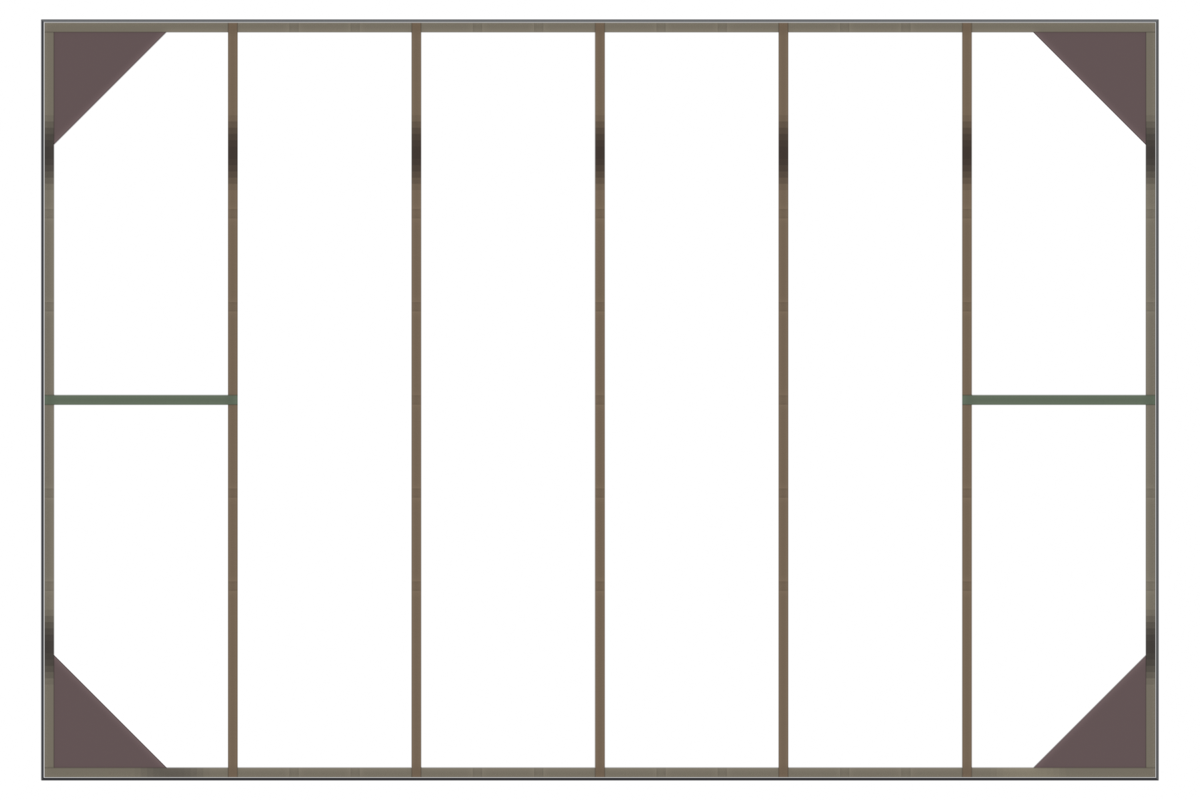
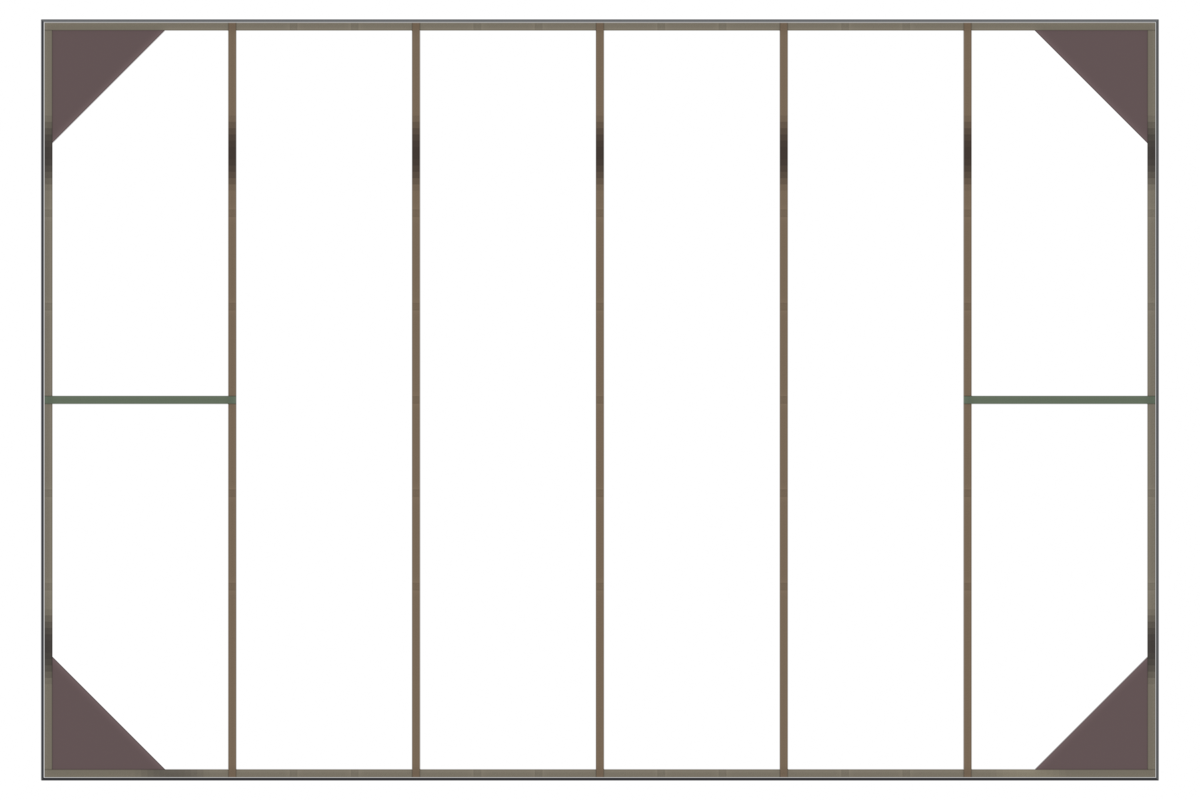
Drawer organizer: measured stock thickness 5.2 mm
Config thickness set from calipers (5.1 to 5.2 mm, sized for the thick spots);
design tests now derive from the configured thickness instead of 0.25.
Cut files, coupon, Blender files and previews regenerated.

Claude-Session: https://claude.ai/code/session_01LZycd3S2pwbAJV8HQ6xUfH

diff --git a/projects/drawer-organizer/test_design.py b/projects/drawer-organizer/test_design.py
@@ -9,24 +9,28 @@ def design():
     return Design(CONFIG)
 
 
+T = CONFIG.thickness      # measured stock, about 0.205 in
+HALF = T / 2
+
+
 def test_outer_size_and_grid(design):
     assert design.width == 29.625 and design.depth == 20.125
     xs = list(design.column_grid.values())
     assert xs == sorted(xs) and len(xs) == 13
     assert xs[0] + xs[-1] == pytest.approx(design.width)  # symmetric about the centre
-    assert xs[0] - 0.125 >= 0.25 + 3.0                   # clear of the corner gusset
-    assert xs[0] - 0.125 >= 0.25 + 1.5 + 2.0 + 0.5       # and of the corner plateau, shoulder and gap
+    assert xs[0] - HALF >= T + 3.0                        # clear of the corner gusset
+    assert xs[0] - HALF >= T + 1.5 + 2.0 + 0.5            # and of the corner plateau, shoulder and gap
     assert len(design.row_grid) == 5
 
 
 def test_steps_make_wall_cells_match_divider_cells(design):
-    assert design.column_pitch == pytest.approx((design.width - 0.25) / 18)
-    assert design.row_pitch == pytest.approx((design.depth - 0.25) / 8)
+    assert design.column_pitch == pytest.approx((design.width - T) / 18)
+    assert design.row_pitch == pytest.approx((design.depth - T) / 8)
     widths = [w for _, w, _ in design.cells()]
     for w in widths[:3]:
-        assert w == pytest.approx(3 * design.column_pitch - 0.25)
-    assert widths[3] == pytest.approx(4 * design.column_pitch - 0.25)
-    assert widths[4] == pytest.approx(5 * design.column_pitch - 0.25)
+        assert w == pytest.approx(3 * design.column_pitch - T)
+    assert widths[3] == pytest.approx(4 * design.column_pitch - T)
+    assert widths[4] == pytest.approx(5 * design.column_pitch - T)
 
 
 def test_six_equal_columns_layout():
@@ -34,7 +38,7 @@ def test_six_equal_columns_layout():
     widths = [w for _, w, _ in d.cells()]
     assert len(widths) == 6
     assert all(w == pytest.approx(widths[0]) for w in widths)
-    assert widths[0] == pytest.approx((d.width - 2 * 0.25 - 5 * 0.25) / 6)
+    assert widths[0] == pytest.approx((d.width - 2 * T - 5 * T) / 6)
     assert d.panels[4].kind == "column" and sum(p.kind == "column" for p in d.panels) == 5
 
 
@@ -60,7 +64,7 @@ def test_tops_front_corners_flat_interior_dropped_back(design):
     f = walls["wall_front"].outline.top_profile
     w = design.shoulder_width(0.5)                             # how long a step's shoulder is
     assert w == 2.0
-    col_first = min(design.column_grid.values()) - 0.125
+    col_first = min(design.column_grid.values()) - HALF
     plateau = col_first - 0.5 - w                              # step finishes one gap before the first slot
     assert design.front_wall_plateau == (pytest.approx(plateau), pytest.approx(plateau))
     assert plateau > 1.5
@@ -73,11 +77,11 @@ def test_tops_front_corners_flat_interior_dropped_back(design):
     b = walls["wall_back"].outline.top_profile
     for x in (0.0, 1.0, W / 2, W - 1.0, W):
         assert b(x) == back                                    # back wall flat at the back level
-    last_slot_end = max(design.row_grid.values()) + 0.125
+    last_slot_end = max(design.row_grid.values()) + HALF
     step_start = last_slot_end + 0.5                           # the step begins one gap past the last slot
     assert design.back_plateau == pytest.approx(D - step_start - w)
     assert design.back_plateau > 2.0                           # the lowered band is most of the back quarter
-    row_first = min(design.row_grid.values()) - 0.125
+    row_first = min(design.row_grid.values()) - HALF
     front_plateau = row_first - 0.5 - w
     assert design.side_front_plateau == pytest.approx(front_plateau)
     for name in ("wall_left", "wall_right"):
@@ -107,10 +111,10 @@ def test_ears_are_flush_front_and_back(design):
     level, back = design.level, design.back_level
     walls = {p.name: p for p in design.panels if p.kind == "wall"}
     for c in (p for p in design.panels if p.kind == "column"):
-        x = c.placement.origin[0] + 0.125
+        x = c.placement.origin[0] + HALF
         f = c.outline.top_profile
-        assert walls["wall_front"].outline.top_profile(x) == level == f(0.125)
-        assert walls["wall_back"].outline.top_profile(x) == back == f(c.outline.length - 0.125)
+        assert walls["wall_front"].outline.top_profile(x) == level == f(HALF)
+        assert walls["wall_back"].outline.top_profile(x) == back == f(c.outline.length - HALF)
         assert c.outline.bottom[0].depth == design.slot_floor
         assert c.outline.bottom[-1].depth == design.back_slot_floor
     for r in (p for p in design.panels if p.kind == "row"):
@@ -161,11 +165,11 @@ def test_panel_sizes(design):
     assert by_name["column_1"].outline.length == design.depth
     row = by_name["row_2"]  # spans two columns, crossing one divider
     assert len(row.outline.bottom) == 3
-    x1 = design.column_grid[CONFIG.columns[0]] - 0.125
-    x3 = design.column_grid[CONFIG.columns[2]] + 0.125
+    x1 = design.column_grid[CONFIG.columns[0]] - HALF
+    x3 = design.column_grid[CONFIG.columns[2]] + HALF
     assert row.outline.length == pytest.approx(x3 - x1)
     # a row divider in one of the equal columns spans the cell plus two divider faces
-    assert by_name["row_1"].outline.length == pytest.approx(3 * design.column_pitch - 0.25 + 0.5)
+    assert by_name["row_1"].outline.length == pytest.approx(3 * design.column_pitch - T + 2 * T)
 
 
 def test_cut_list_needs_passthrough_for_walls(design):
@@ -181,7 +185,7 @@ def test_cut_list_needs_passthrough_for_walls(design):
 def test_gussets(design):
     gussets = [p for p in design.panels if p.kind == "gusset"]
     assert len(gussets) == 4
-    leg, t = 3.0, 0.25
+    leg, t = 3.0, T
     tabs = design.gusset_tab_spans
     assert [v for span in tabs for v in span] == pytest.approx([0.6, 1.2, 1.8, 2.4])
     expected = leg * leg / 2 + 2 * sum((b - a) * t for a, b in tabs)
@@ -215,7 +219,7 @@ def test_cells_add_up(design):
     for _, width, depths in design.cells():
         assert width > 1
         # cells plus divider thicknesses plus the two walls span the full depth
-        assert sum(depths) + 0.25 * (len(depths) - 1) + 0.5 == pytest.approx(design.depth)
+        assert sum(depths) + T * (len(depths) - 1) + 2 * T == pytest.approx(design.depth)
 
 
 def test_row_conflict_is_rejected():

diff --git a/projects/drawer-organizer/config.py b/projects/drawer-organizer/config.py
@@ -21,7 +21,7 @@ BOX = OrganizerConfig(
     drawer_height=6.0,
     clearance=1 / 16,
     height=4.5,
-    thickness=0.25,
+    thickness=5.2 / 25.4,   # measured with calipers 2026-09-08: 5.1 to 5.2 mm; sized for the thick spots
     column_steps=18,
     row_steps=8,
     notch_depth=1.25,

diff --git a/projects/drawer-organizer/README.md b/projects/drawer-organizer/README.md
@@ -72,7 +72,7 @@ All in `config.py`, all in inches.
 |---|---|---|
 | `clearance` | 1/16 per side | box is the drawer size minus twice this |
 | `height` | 4.5 | wall height at the raised corners |
-| `thickness` | 0.25 | **measure your actual stock with calipers** and set this |
+| `thickness` | 5.2 mm (0.2047 in) | measured with calipers, 5.1 to 5.2 mm; set to the thick reading so slots fit everywhere |
 | `column_steps` | 18 | grid steps across the width; must be even, and a multiple of any number of equal columns you want |
 | `row_steps` | 8 | grid steps along the depth; must be even |
 | `notch_depth` | 1.25 | how far a divider's ear engages its slot, measured from the interior level |
@@ -102,7 +102,7 @@ wall, whose top is lower. A column divider's bottom notches match: 2.75 in tall 
 front, 2.25 at the back, which gives it a definite front and back.
 
 **Grid steps.** The wall length minus one stock thickness is divided into an even
-number of equal steps: 18 across (a pitch of 1.632 in) and 8 front to back (2.484 in).
+number of equal steps: 18 across (a pitch of 1.634 in) and 8 front to back (2.490 in).
 A cell against a wall is bounded by one wall face and one divider face, a cell between
 dividers by two divider faces; with an even step count those come out the same width
 for the same number of steps, so any cell is simply steps x pitch minus thickness,
@@ -119,13 +119,13 @@ a multiple of m: 18 allows 2, 3, 6 or 9 equal columns.
 
 | column | clear width | cells front to back |
 |---|---|---|
-| 1 | 4.646 | 9.6875 / 9.6875 |
-| 2 | 4.646 | 7.203 / 12.172 |
-| 3 | 4.646 | 7.203 / 7.203 / 4.719 |
-| 4 | 6.278 | 9.6875 / 9.6875 |
-| 5 | 7.910 | 4.719 / 9.6875 / 4.719 |
+| 1 | 4.699 | 9.755 / 9.755 |
+| 2 | 4.699 | 7.265 / 12.245 |
+| 3 | 4.699 | 7.265 / 7.265 / 4.775 |
+| 4 | 6.333 | 9.755 / 9.755 |
+| 5 | 7.968 | 4.775 / 9.755 / 4.775 |
 
-**six-equal**: six columns of 3 steps, each 4.646 in wide, with the two outer columns
+**six-equal**: six columns of 3 steps, each 4.699 in wide, with the two outer columns
 split in half.
 
 The row dividers in both are demonstration sets; their lengths follow the columns
@@ -139,8 +139,8 @@ automatically.
 | back wall | 1 | 29.625 x 3.5 | passthrough |
 | side wall | 2 | 20.125 x 4.5 | passthrough |
 | column divider | 4 | 20.125 x 4.0 | passthrough |
-| row dividers | 6 | 5.15 to 8.41 x 4.0 | fit on the bed |
-| corner gusset | 4 | 3.25 x 3.25 | fit on the bed |
+| row dividers | 6 | 5.11 to 10.01 x 4.0 | fit on the bed |
+| corner gusset | 4 | 3.20 x 3.20 | fit on the bed |
 
 Every part that runs the full depth of the drawer is just over the 19.5 in bed, so the
 walls and column dividers all need the passthrough. Shrinking the box to 19.5 in deep
@@ -190,8 +190,9 @@ sections. Parts are nested as rectangles; no two are closer than 0.1 in.
    floor in each corner cell and the divider positions nearest the corners, which only
    ever made cells under 2.5 in wide. A 2 in leg keeps one more column position per
    side. The box is glued, so they earn their keep.
-5. **Stock thickness.** Nominal 1/4 in plywood is usually 0.2 to 0.23 in. The design
-   scales with `thickness`, so measure before cutting.
+5. **Stock thickness.** Measured 5.1 to 5.2 mm across the sheets; the design uses
+   5.2 mm so slots and finger notches fit the thick spots, and the thin spots get at
+   most 0.1 mm of play. The kerf coupon's slots step by 0.1 mm, which brackets that.
 6. **Bands set by the slots.** The raised front bands and the lowered back band each
    run from the corner to a shoulder that finishes half an inch short of the nearest
    slot, so the flat interior level spans exactly the slotted region. With the 2 in
